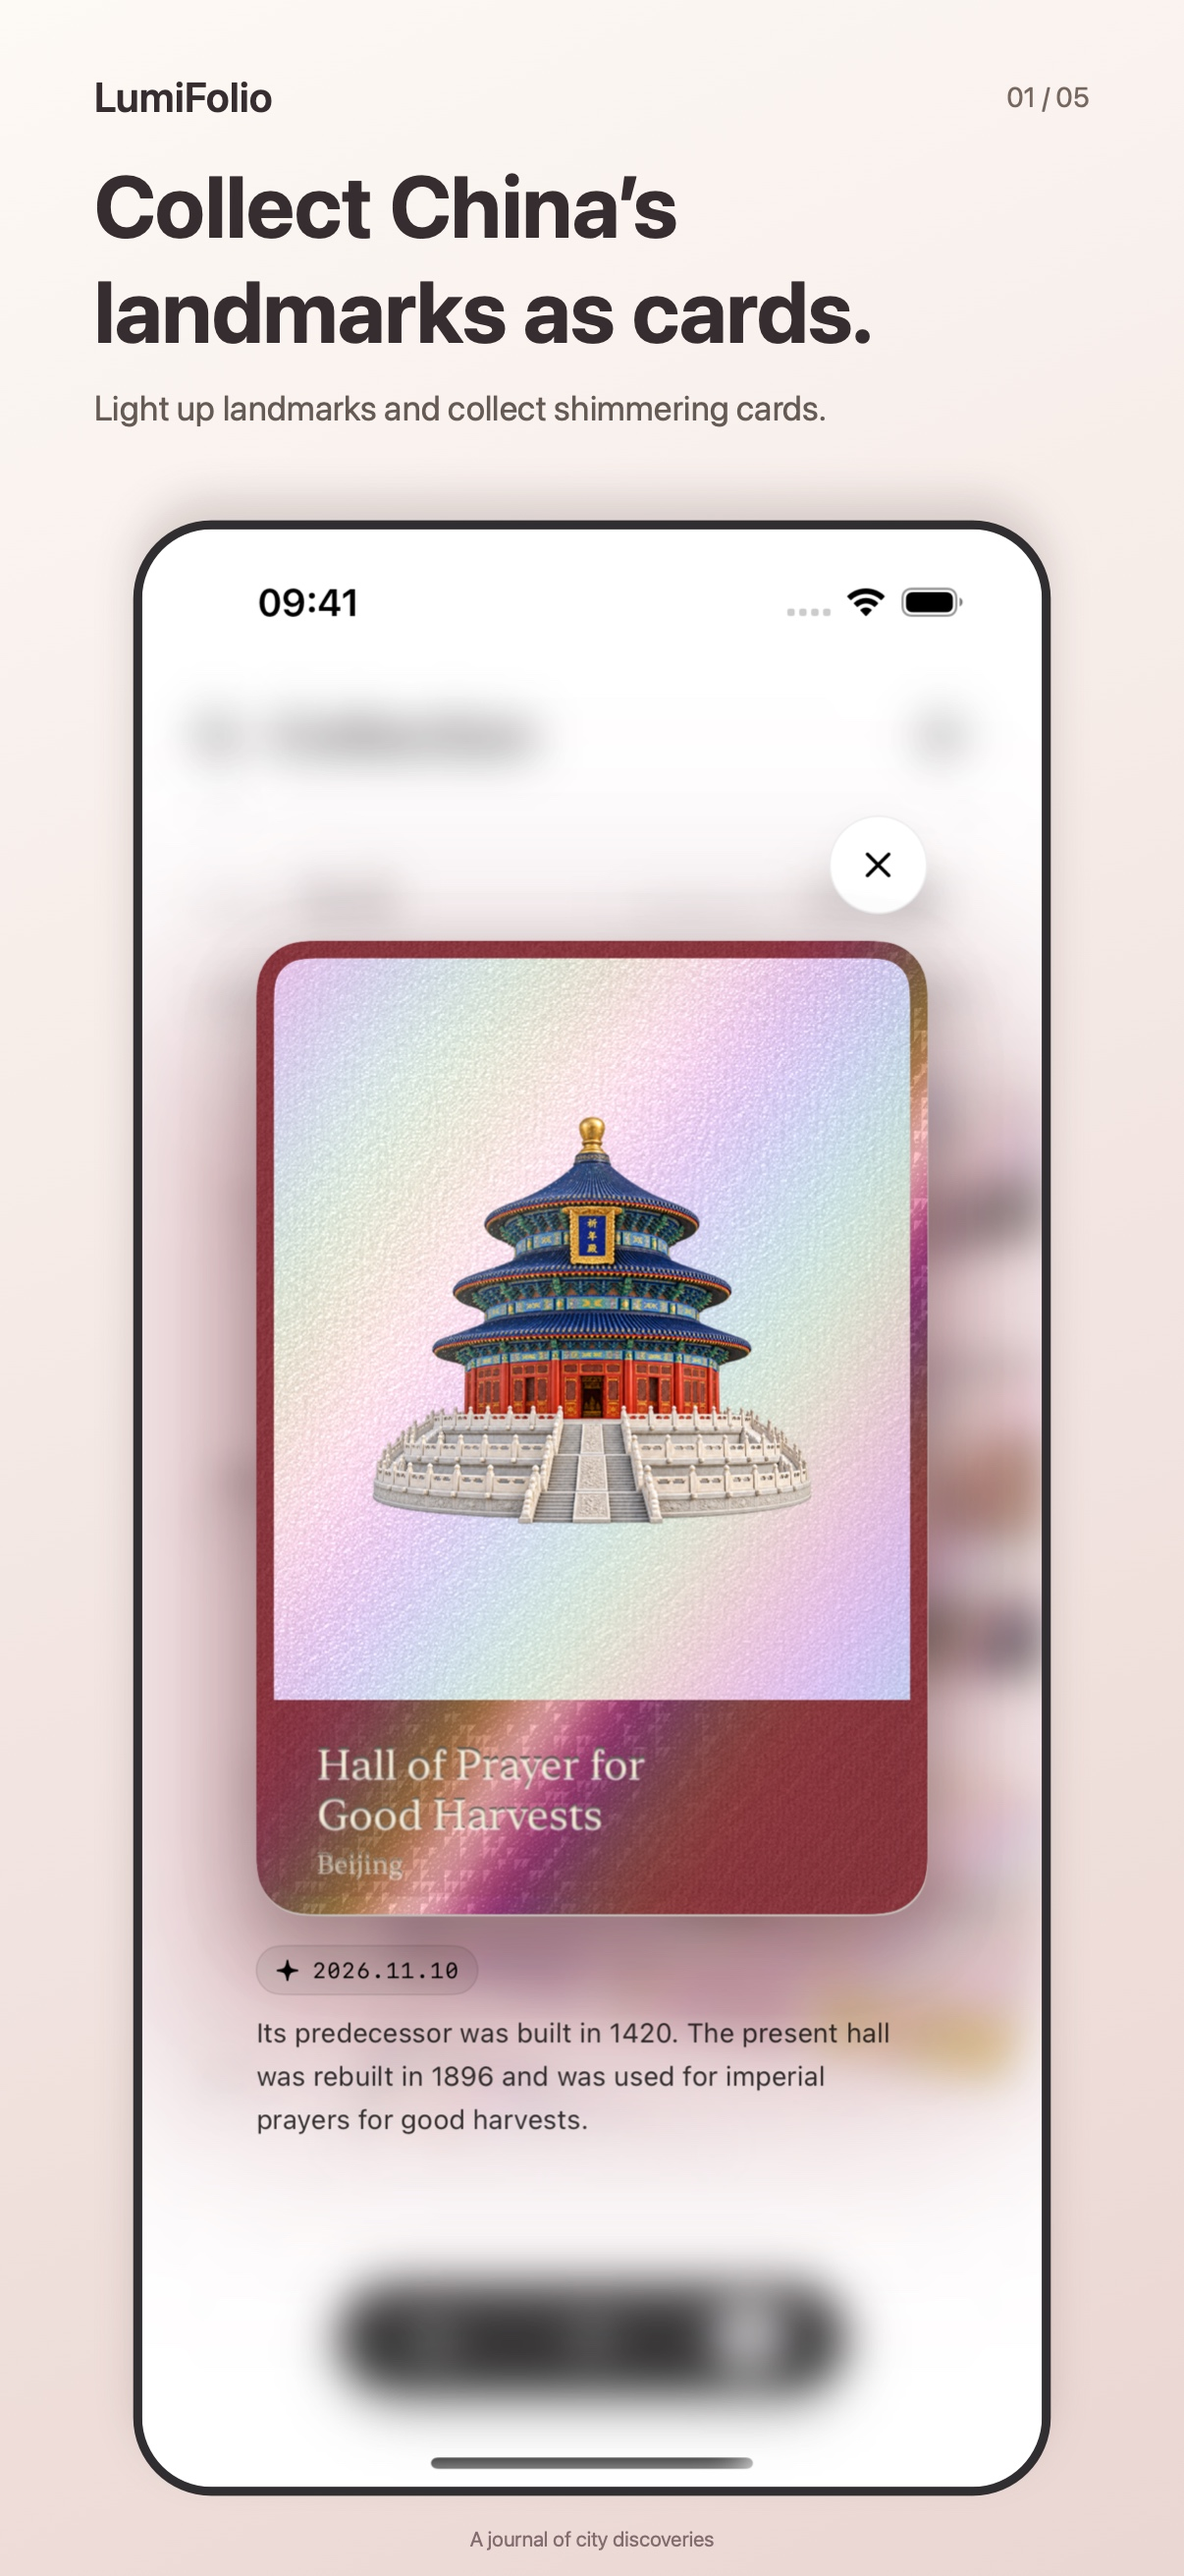
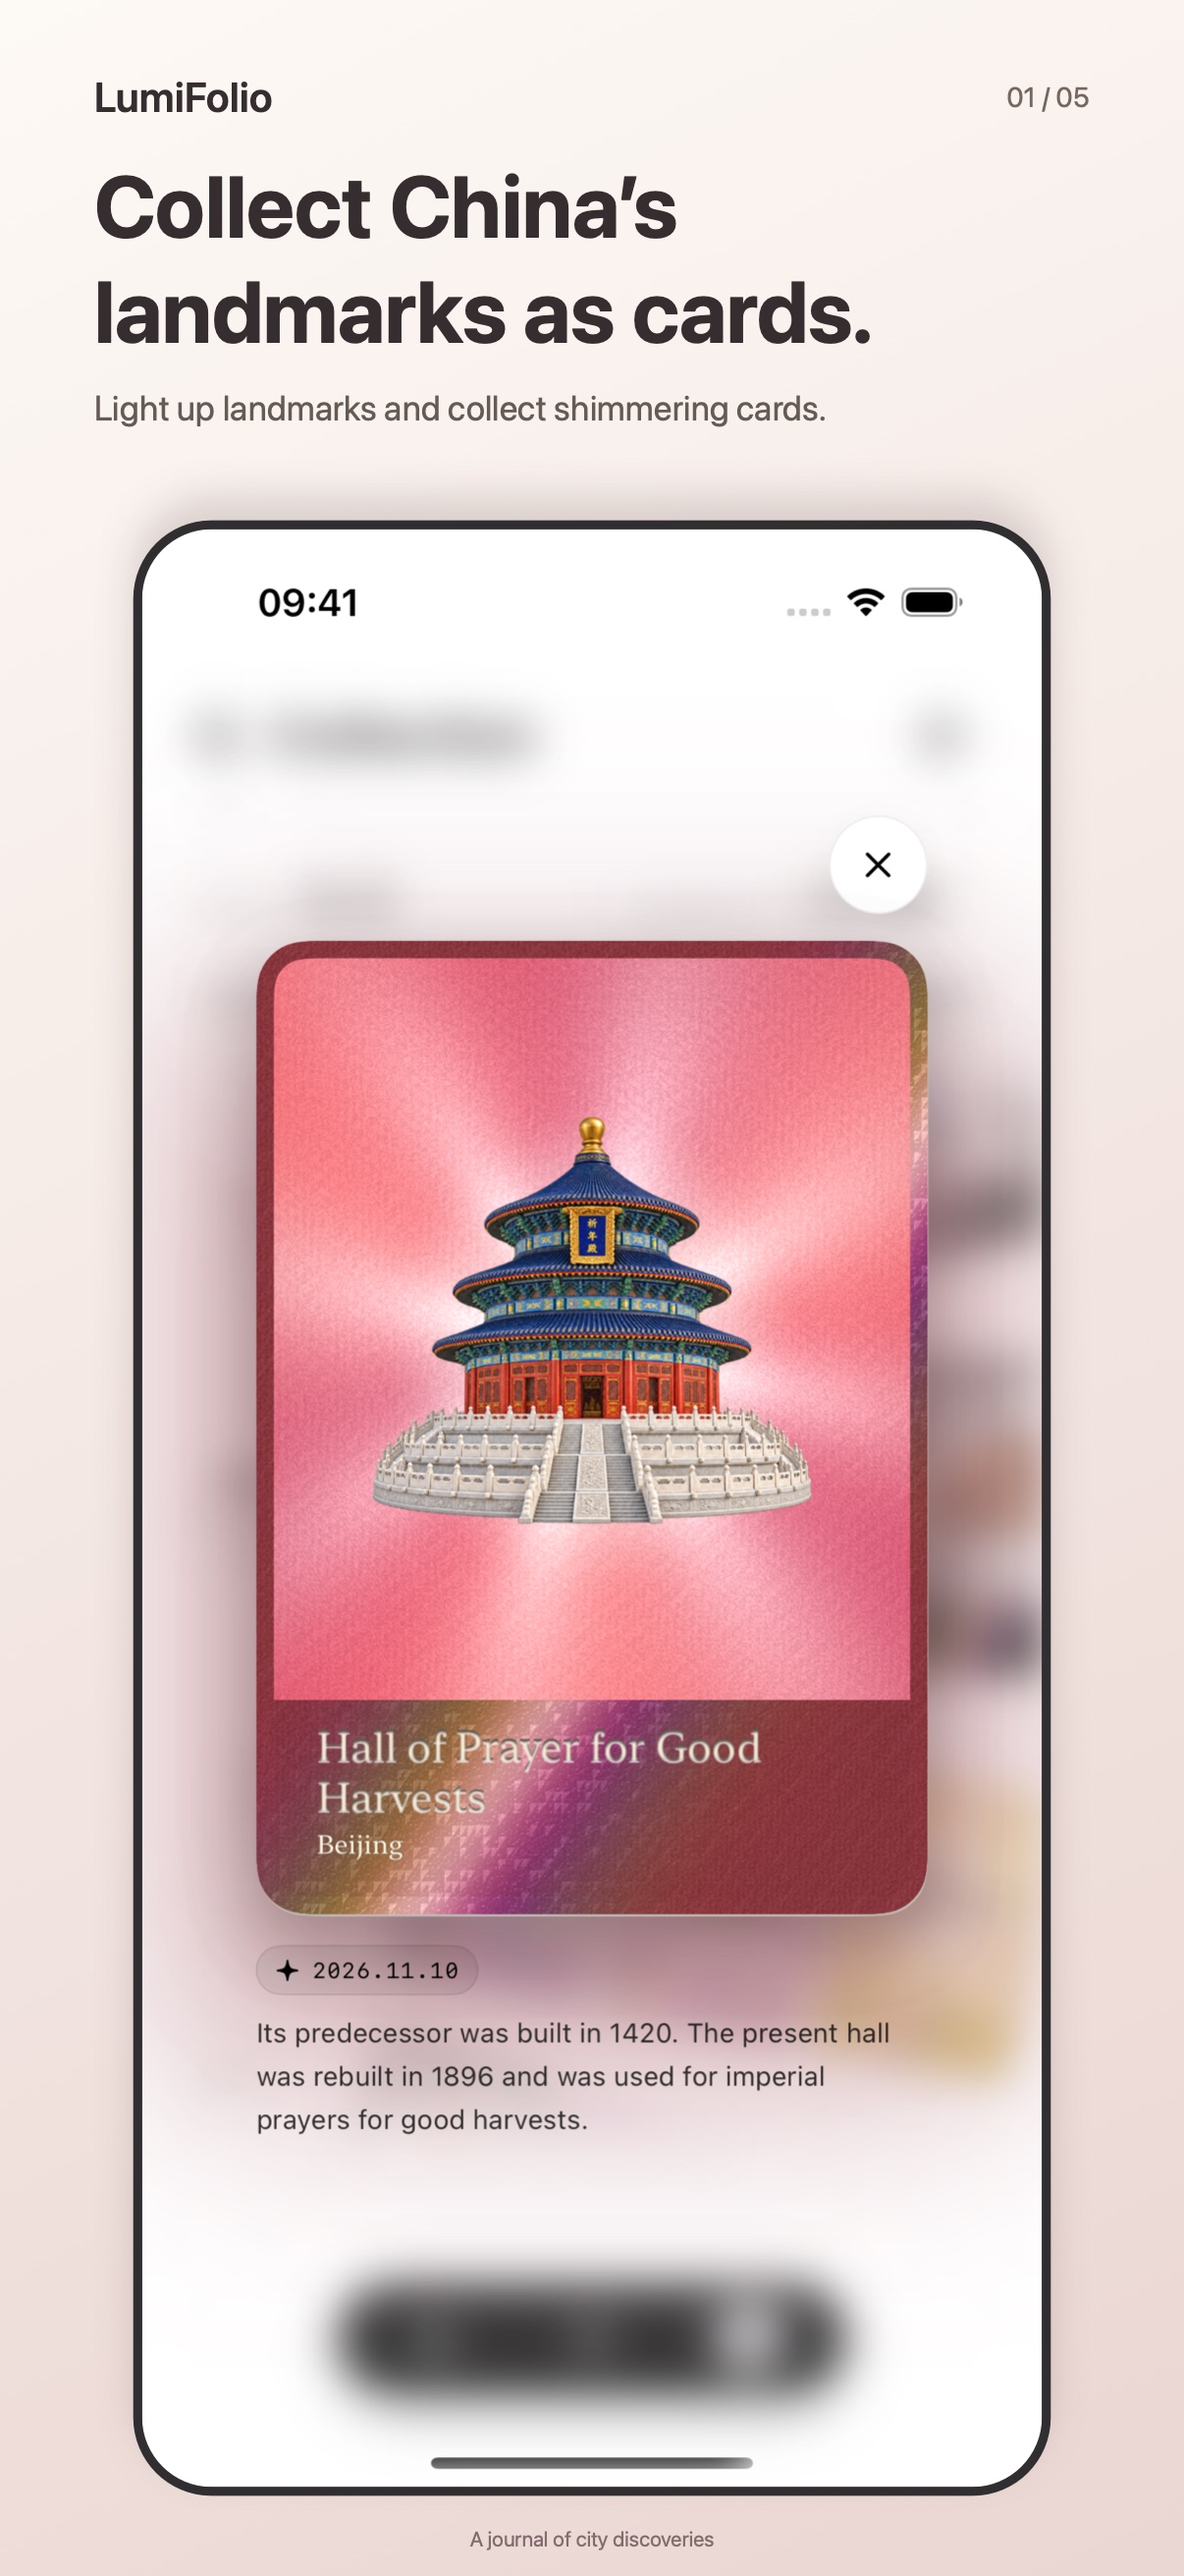
Update website artwork for LumiFolio 1.2 build 2

Changed region(s): [[0.2148, 0.3707, 0.8284, 0.7414], [0.8284, 0.6796, 0.8897, 0.7414], [0.7977, 0.5252, 0.859, 0.5561]]

diff --git a/README.md b/README.md
@@ -17,7 +17,7 @@ LumiFolio 是一款中国地标建筑图鉴与拍照打卡 App，以中国剪纸
 
 ## App 一览
 
-以下为 LumiFolio 1.1 的 App Store 宣传图，包含功能说明与真实 App 截图。
+以下为 LumiFolio 1.2（build 2）的 App Store 宣传图，包含功能说明与真实 App 截图。
 
 <p>
   <img src="assets/screenshots/zh-Hans/01-flash.jpg" alt="点亮后的地标闪卡" width="240">
